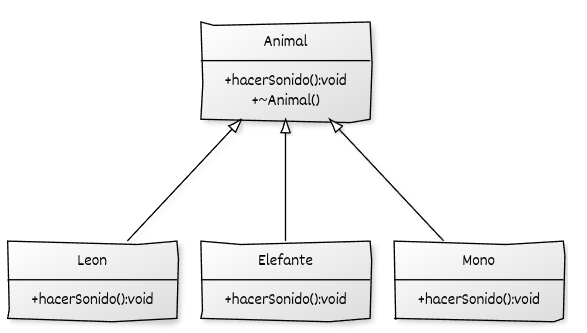
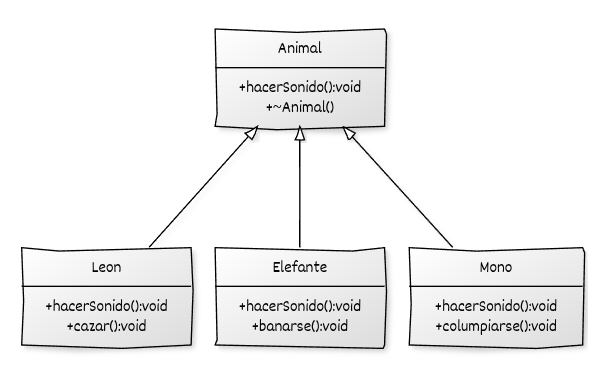
Modulo04

Changed region(s): [[0.0, 0.0601, 0.9813, 0.991], [0.3373, 0.4505, 0.368, 0.5105]]

diff --git a/contenido/modulo04/ejercicio2.md b/contenido/modulo04/ejercicio2.md
@@ -39,17 +39,40 @@ Escribe un programa que use un `std::vector<std::unique_ptr<Instrumento>>` para 
 
 ## Ejercicio 3: Conversión implícita y punteros base
 
-
-En un zoológico queremos representar distintos animales, pero tratarlos de forma uniforme para poder listarlos y hacerlos emitir sonidos.
+En un zoológico queremos representar distintos animales, pero tratarlos de forma uniforme mediante **referencias a la clase base**.
+Esto permitirá demostrar el funcionamiento de las **conversiones implícitas** en jerarquías de herencia y el **polimorfismo dinámico** en C++.
 
 Crea las clases:
 
-* `Animal` (clase base con método virtual `hacerSonido()` y destructor virtual).
-* `Leon`, derivada de `Animal`, redefine `hacerSonido()` para imprimir "Ruge el león".
-* `Elefante`, derivada de `Animal`, redefine `hacerSonido()` para imprimir "Barrita el elefante".
-* `Mono`, derivada de `Animal`, redefine `hacerSonido()` para imprimir "Chilla el mono".
+* **Animal** (clase base)
 
-En el `main`, crea un `std::vector<std::unique_ptr<Animal>>` y almacena distintos animales. Recorre el vector y llama a `hacerSonido()` en cada uno para demostrar la conversión implícita de punteros derivados a base.
+  * Contiene un método virtual `hacerSonido()` que imprime `"Sonido genérico de animal"`.
+  * Incluye un destructor virtual.
+
+* **Leon** (derivada de `Animal`)
+
+  * Redefine `hacerSonido()` para imprimir `"Ruge el león"`.
+  * Añade el método `cazar()`, que imprime `"El león está cazando"`.
+
+* **Elefante** (derivada de `Animal`)
+
+  * Redefine `hacerSonido()` para imprimir `"Barrita el elefante"`.
+  * Añade el método `banarse()`, que imprime `"El elefante se baña"`.
+
+* **Mono** (derivada de `Animal`)
+
+  * No redefine `hacerSonido()`, por lo que hereda el comportamiento genérico de `Animal`.
+  * Añade el método `columpiarse()`, que imprime `"El mono se columpia"`.
+
+En el programa principal (`main`):
+
+1. Crea instancias de las clases derivadas.
+2. Declara referencias de tipo `Animal&` y asígnales los objetos derivados, demostrando la **conversión implícita de referencias derivadas a base**.
+3. Llama al método `hacerSonido()` a través de las referencias base para observar el comportamiento **polimórfico**:
+
+   * Si el método está sobrescrito, se ejecuta la versión de la clase derivada.
+   * Si no lo está, se utiliza la versión de la clase base.
+4. Comprueba que **no es posible acceder a los métodos específicos de cada clase derivada** (`cazar()`, `banarse()`, `columpiarse()`) desde una referencia a la base, salvo mediante una **conversión explícita**.
 
 ### UML
 
